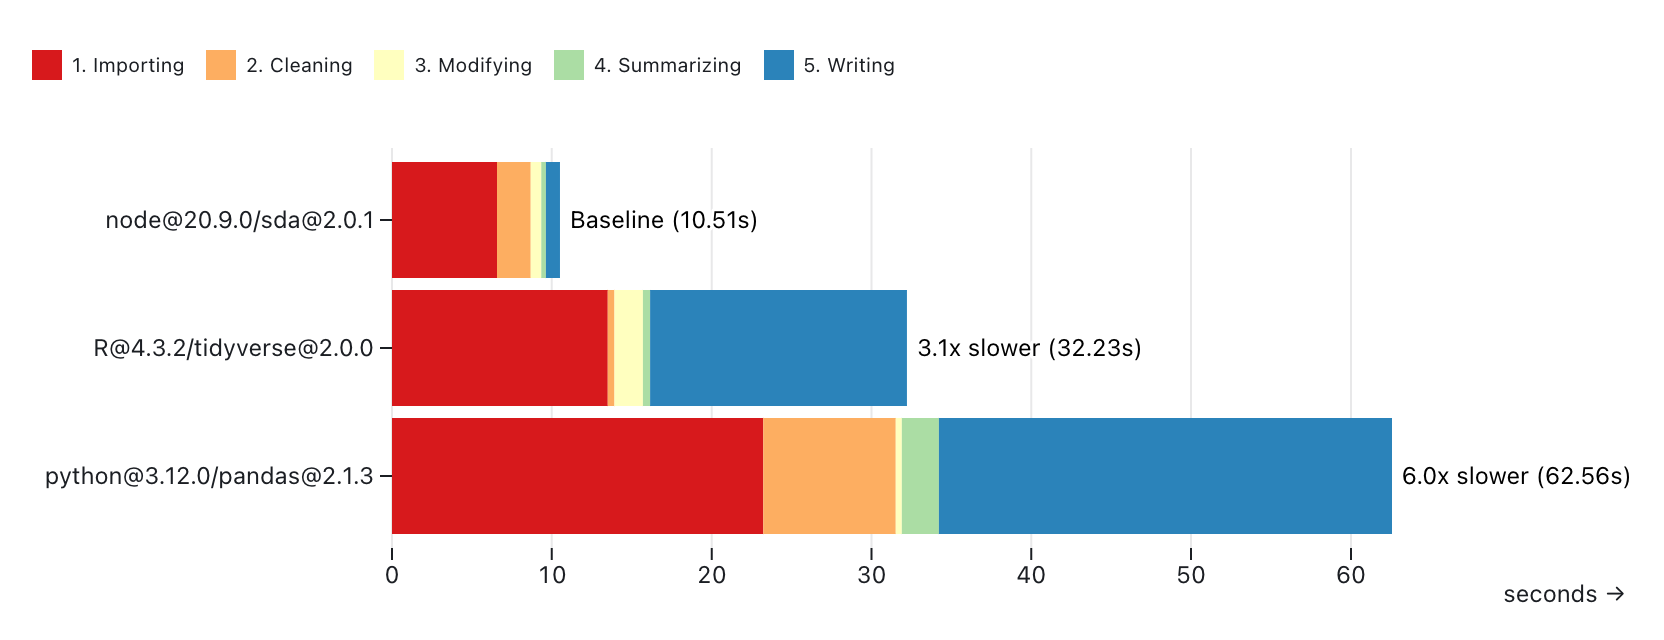
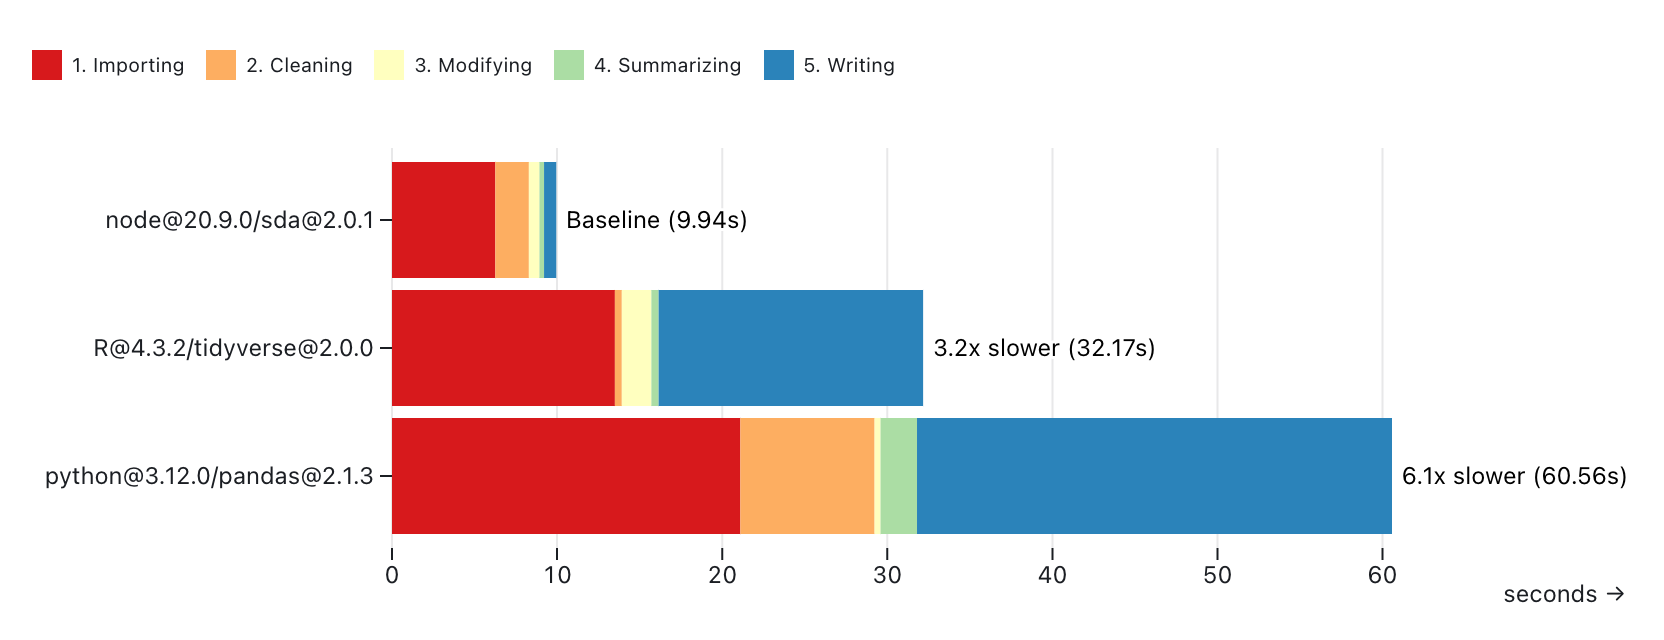
updating

diff --git a/benchmark-node-sda-next.js b/benchmark-node-sda-next.js
@@ -1,6 +1,8 @@
 import benchmark from "./functions/sdaNext.js";
 
 console.log("benchmark-node-sda-next");
+
+console.log("ahccd-sample.csv");
 await benchmark(
   "ahccd-sample.csv",
   10,
@@ -8,4 +10,5 @@ await benchmark(
   "simple-data-analysis@2.0.1"
 );
 
-await benchmark("ahccd.csv", 1, "node@20.9.0", "simple-data-analysis@2.0.1");
+console.log("ahccd.csv");
+await benchmark("ahccd.csv", 10, "node@20.9.0", "simple-data-analysis@2.0.1");

diff --git a/benchmark-node-sda-legacy.js b/benchmark-node-sda-legacy.js
@@ -2,6 +2,7 @@ import benchmark from "./functions/sdaLegacy.js";
 
 console.log("benchmark-node-sda-legacy");
 
+console.log("ahccd-sample.csv");
 await benchmark(
   "ahccd-sample.csv",
   10,

diff --git a/benchmark-bun-sda-legacy.js b/benchmark-bun-sda-legacy.js
@@ -1,6 +1,7 @@
 import benchmark from "./functions/sdaLegacy.js";
 
 console.log("benchmark-bun-sda-legacy");
+console.log("ahccd-sample.csv");
 await benchmark(
   "ahccd-sample.csv",
   10,

diff --git a/benchmark-python-pandas.py b/benchmark-python-pandas.py
@@ -2,6 +2,10 @@ import sys
 sys.path.append("./functions")
 from python_pandas import benchmark
 
+print("benchmark-python-pandas")
+
+print("ahccd-sample.csv")
 benchmark("ahccd-sample.csv", 10, "pandas@2.1.3", "python@3.12.0")
 
+print("ahccd.csv")
 benchmark("ahccd.csv", 10, "pandas@2.1.3", "python@3.12.0")

diff --git a/README.md b/README.md
@@ -2,7 +2,7 @@
 
 To test the performance of **simple-data-analysis@2.0.1**, we calculated the average temperature per decade and city with the daily temperatures from the [Adjusted and Homogenized Canadian Climate Data](https://api.weather.gc.ca/collections/ahccd-annual).
 
-We ran the same calculations with **simple-data-analysis@1.8.1** (both NodeJS and Bun), **Pandas (Python)**, and the **tidyverse (R)**.
+We ran the same calculations with **simple-data-analysis@1.8.1** (both NodeJS and Bun), **Pandas** (Python), and the **tidyverse** (R).
 
 In each script, we:
 
